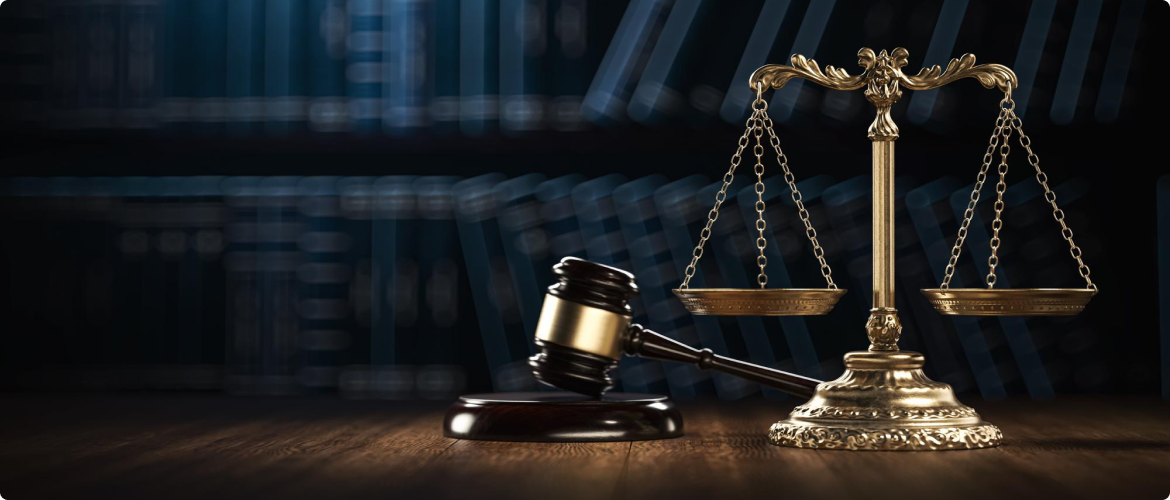
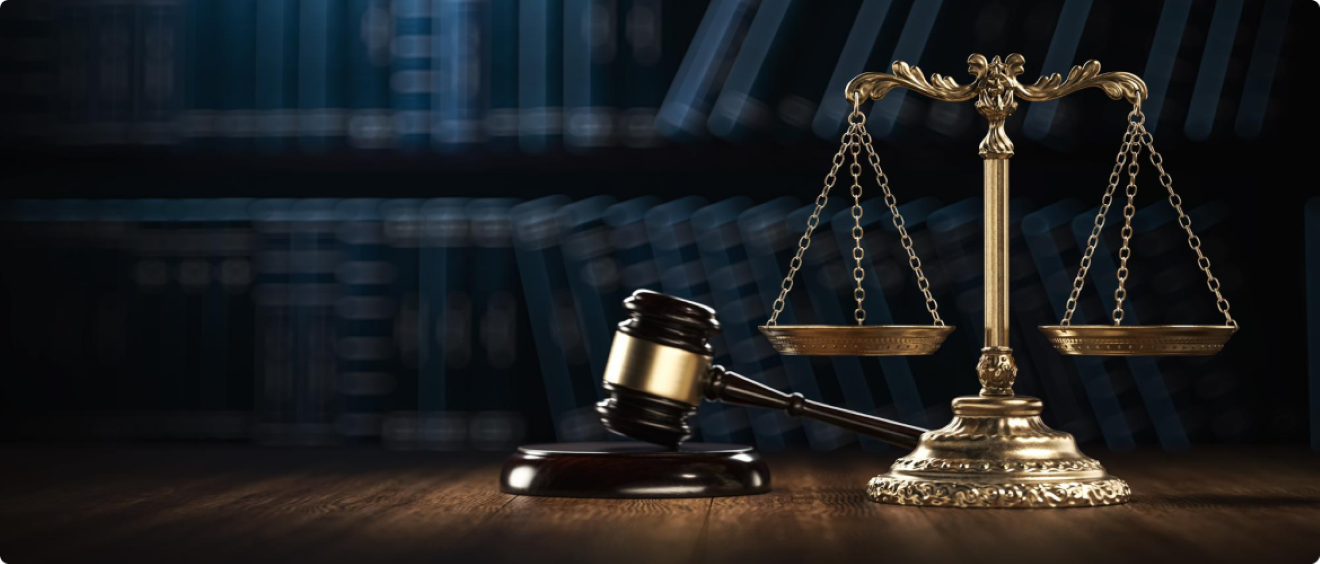
Header Complete

diff --git a/index.html b/index.html
@@ -22,7 +22,7 @@
 </head>
 <body class="container">
   <header class="mt-3">
-    <nav class="navbar navbar-expand-lg ">
+    <nav class="navbar navbar-expand-lg ls-poppins">
       <div class="container-fluid">
         <img class="navbar-brand" src="images/Group 2.png" alt="">
         <button class="navbar-toggler" type="button" data-bs-toggle="collapse" data-bs-target="#navbarSupportedContent" aria-controls="navbarSupportedContent" aria-expanded="false" aria-label="Toggle navigation">
@@ -55,11 +55,12 @@
             <div class="modal-dialog">
               <div class="modal-content">
                 <div class="modal-header">
-                  <h1 class="modal-title fs-5" id="exampleModalLabel">Modal title</h1>
+                  <h1 class="modal-title fs-5" id="exampleModalLabel">Be Honest</h1>
                   <button type="button" class="btn-close" data-bs-dismiss="modal" aria-label="Close"></button>
                 </div>
                 <div class="modal-body">
-                  ...
+                  "Honesty is the first chapter in the book of wisdom." <br>
+                   -Thomas Jefferson
                 </div>
                 <div class="modal-footer">
                   <button type="button" class="btn btn-secondary" data-bs-dismiss="modal">Close</button>
@@ -72,7 +73,27 @@
       </div>
     </nav>
 
+    <!-- Nav End -->
+
+    <!-- Banner section -->
+    <div class="ls-banner ">
+      <img class="img-fluid position-relative" src="images/Rectangle 6.png" alt="">
+      
+      <div class="position-absolute top-50 start-50 translate-middle justify-content-center align-items-center ">
+        <div>
+          <h1 class="ls-banner-header  mb-3 fw-bold text-center text-white ls-eb-garamond">We Provide Effective Legal Solutions</h1>
+          <p class="text-white opacity-75 text-center">There are many variations of passages of Lorem Ipsum available, but the majority have suffered alteration in some form, by injected humour.</p>
+        </div>
+        <div class="container-fluid justify-content-center">
+          <form class="d-flex gap-3" role="search">
+            <input class="form-control me-2" type="search" placeholder="Search your services" aria-label="Search">
+            <button class="btn ls-bg-primary-btn px-5 py-3 fw-bold" type="submit">Search</button>
+          </form>
+        </div>
+      </div>
+    </div>
   </header>
+  <!-- Header End -->
   <main>
 
   </main>

diff --git a/style.css b/style.css
@@ -1,9 +1,14 @@
+/* Fonts */
+.ls-poppins{
+    font-family: 'Poppins', sans-serif;
+}
+
+.ls-eb-garamond{
+    font-family: 'EB Garamond', serif;
+}
 
 /* Header Section */
 
-nav{
-    font-family: 'Poppins', sans-serif;
-}
 
 
 
@@ -19,5 +24,13 @@ nav{
     background-color: #cf954d;
 }
 
+/* banner section */
+/* .ls-banner{
+    background: linear-gradient(180deg, #111111 0%, rgba(17, 17, 17, 0) 100%);
+}  */
+
+.ls-banner-header{
+    font-size: 5rem;
+}
 
 
